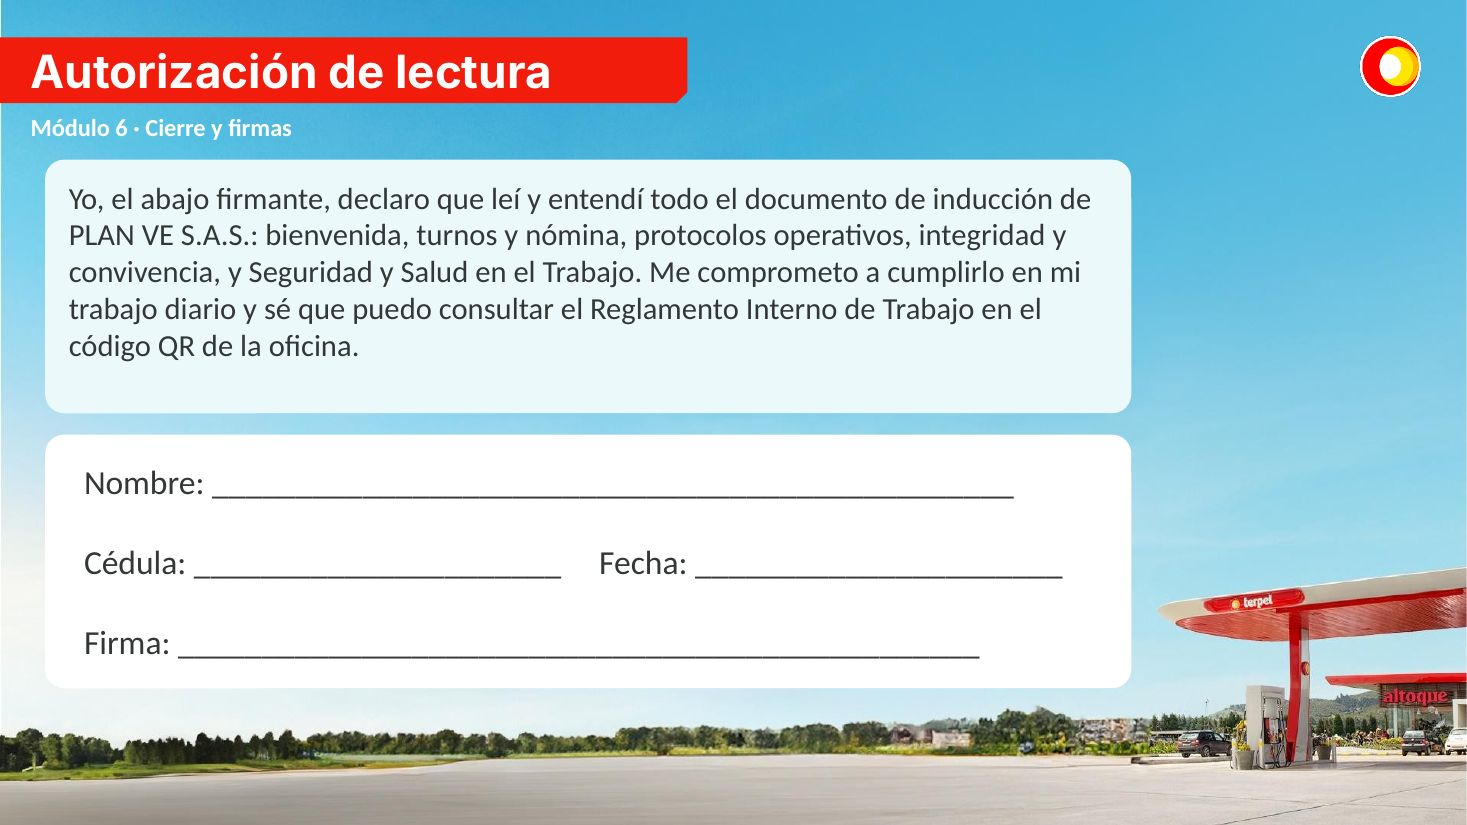
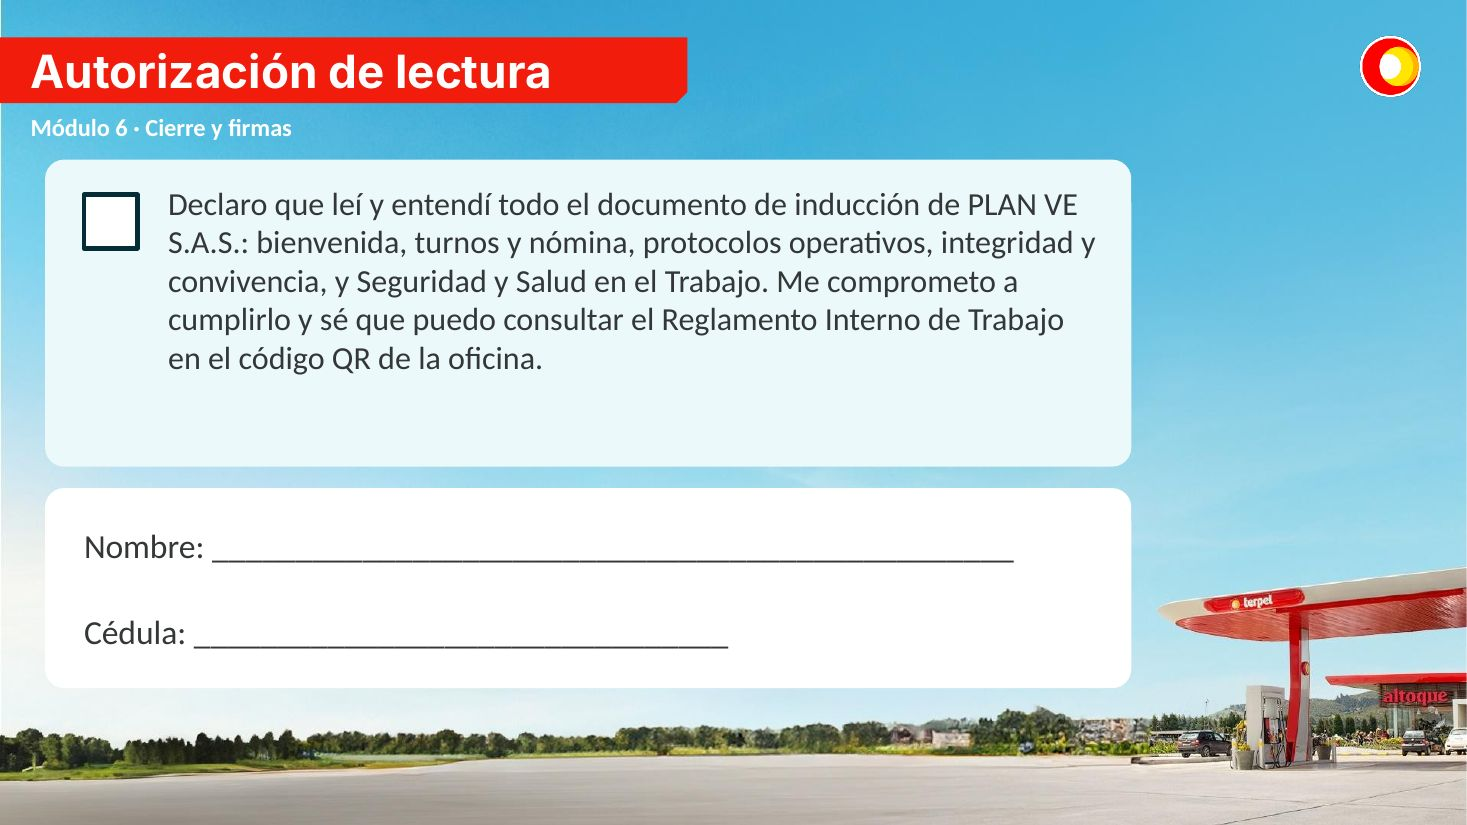
Inducción: autorización de lectura con casilla, nombre y cédula; envío a hoja de autorizaciones
Claude-Session: https://claude.ai/code/session_01BHd7aSP7BJ5TxykRrPvLiy

diff --git a/induccion/index.html b/induccion/index.html
@@ -88,6 +88,14 @@ input[type=text]:focus{outline:3px solid var(--yellow);border-color:var(--navy)}
 .kv{display:grid;grid-template-columns:auto 1fr;gap:6px 14px;font-variant-numeric:tabular-nums;margin:0}
 .kv dt{color:var(--muted);font-weight:600} .kv dd{margin:0;font-weight:700;min-width:0;overflow-wrap:anywhere}
 .code{font-family:ui-monospace,Menlo,Consolas,monospace;font-size:20px;letter-spacing:.12em;color:var(--navy)}
+.authbox{margin-top:14px;background:var(--surface);border:2px solid var(--red);border-radius:16px;padding:18px;display:flex;flex-direction:column;gap:14px}
+.bigcheck{display:flex;gap:14px;align-items:flex-start;cursor:pointer;font-size:17px;line-height:1.45}
+.bigcheck input{appearance:none;-webkit-appearance:none;flex:none;width:34px;height:34px;border:3px solid var(--navy);border-radius:6px;background:var(--surface);display:grid;place-items:center;cursor:pointer;margin:0}
+.bigcheck input:checked{background:var(--ok);border-color:var(--ok)}
+.bigcheck input:checked::after{content:"✓";color:#fff;font-size:26px;font-weight:900;line-height:1}
+.bigcheck input:focus-visible{outline:3px solid var(--yellow);outline-offset:2px}
+.okmsg{color:var(--ok);font-weight:700}
+.badmsg{color:var(--bad);font-weight:700}
 .tbl-wrap{overflow-x:auto;border:1px solid var(--line);border-radius:14px;background:var(--surface)}
 table.res{border-collapse:collapse;width:100%;font-size:14px;font-variant-numeric:tabular-nums}
 table.res th,table.res td{padding:10px 12px;text-align:left;border-bottom:1px solid var(--line);white-space:nowrap}
@@ -123,6 +131,16 @@ table.res th{font-family:var(--display);font-weight:800;color:var(--muted);font-
       <button class="btn ghost" id="next">Siguiente</button>
     </div>
     <div class="dots" id="dots" aria-label="Ir a una diapositiva"></div>
+    <div class="authbox" id="authPanel" hidden>
+      <h2>Autorización de lectura</h2>
+      <label class="bigcheck" for="authChk"><input type="checkbox" id="authChk"><span>Declaro que leí y entendí todo el documento de inducción de PLAN VE S.A.S.: bienvenida, turnos y nómina, protocolos operativos, integridad y convivencia, y Seguridad y Salud en el Trabajo. Me comprometo a cumplirlo y sé que puedo consultar el Reglamento Interno de Trabajo en el código QR de la oficina.</span></label>
+      <div class="row">
+        <label class="f" for="authNombre">Nombre completo<input type="text" id="authNombre" autocomplete="off" placeholder="Ej.: Juan Pérez"></label>
+        <label class="f" for="authCedula">Cédula<input type="text" id="authCedula" inputmode="numeric" autocomplete="off" placeholder="Ej.: 1012345678"></label>
+      </div>
+      <div><button class="btn" id="authSend" disabled>Firmar autorización</button></div>
+      <p id="authMsg" class="note" hidden></p>
+    </div>
     <div class="cta" id="cta">
       <div><h2>¿Terminaste la presentación?</h2><p style="color:var(--muted)">Responde la evaluación. Se aprueba solo con 100/100.</p></div>
       <button class="btn" id="toEval2">Hacer la evaluación</button>
@@ -144,6 +162,7 @@ table.res th{font-family:var(--display);font-weight:800;color:var(--muted);font-
       <div class="panel stack">
         <h2>Antes de empezar</h2>
         <ul class="rules">
+          <li>Antes debes firmar la <b>autorización de lectura</b> al final de la presentación.</li>
           <li>Son <b>20 preguntas</b> de selección múltiple sobre lo que viste en la inducción.</li>
           <li>Necesitas <b>100 sobre 100</b>. Con una sola respuesta mala, repites.</li>
           <li>Cada intento trae preguntas diferentes y las opciones en otro orden.</li>
@@ -152,12 +171,14 @@ table.res th{font-family:var(--display);font-weight:800;color:var(--muted);font-
         </ul>
       </div>
       <div class="panel stack">
-        <div class="row">
-          <label class="f" for="nombre">Nombre completo<input type="text" id="nombre" autocomplete="name" placeholder="Ej.: Juan Pérez"></label>
-          <label class="f" for="cedula">Cédula<input type="text" id="cedula" inputmode="numeric" placeholder="Ej.: 1012345678"></label>
+        <div id="needAuth" class="stack">
+          <p class="badmsg">Primero firma la autorización de lectura al final de la presentación.</p>
+          <div><button class="btn alt" id="goAuth">Ir a la autorización</button></div>
         </div>
-        <label class="opt" for="autoriza" style="cursor:pointer"><input type="checkbox" id="autoriza"><span><b>Autorización de lectura:</b> declaro que leí y entendí todo el documento de inducción de PLAN VE S.A.S. y que puedo consultar el Reglamento Interno de Trabajo en el código QR de la oficina.</span></label>
-        <div><button class="btn" id="go" disabled>Empezar evaluación</button></div>
+        <div id="haveAuth" class="stack" hidden>
+          <dl class="kv"><dt>Nombre</dt><dd id="evN"></dd><dt>Cédula</dt><dd id="evC"></dd></dl>
+          <div><button class="btn" id="go">Empezar evaluación</button></div>
+        </div>
       </div>
     </section>
     <section id="result" class="stack" style="margin-top:16px" hidden></section>
@@ -178,10 +199,12 @@ const $ = (id)=>document.getElementById(id);
 const N = 41; let cur = 1;
 const src = (n)=>`slides/s-${String(n).padStart(2,"0")}.jpg`;
 for(let i=1;i<=N;i++){ const b=document.createElement("button"); b.setAttribute("aria-label","Diapositiva "+i); b.addEventListener("click",()=>show(i)); $("dots").appendChild(b); }
-const VIDEO_SLIDE = 11;
+const VIDEO_SLIDE = 11, AUTH_SLIDE = 40;
+let auth = null;
 function show(n){
   cur=Math.max(1,Math.min(N,n));
   const isVid = cur===VIDEO_SLIDE; $("slide").hidden=isVid; $("vid").hidden=!isVid; $("vidcap").hidden=!isVid; if(!isVid) $("vid").pause();
+  $("authPanel").hidden = cur!==AUTH_SLIDE;
   $("slide").src=src(cur); $("slide").alt="Diapositiva "+cur+" de la inducción";
   $("pos").textContent=cur+" / "+N;
   $("prev").disabled=cur===1; $("next").disabled=cur===N;
@@ -194,6 +217,25 @@ document.addEventListener("keydown",(e)=>{ if($("deck").hidden) return; if(e.key
 let tx=null; $("slide").addEventListener("touchstart",e=>{tx=e.touches[0].clientX},{passive:true});
 $("slide").addEventListener("touchend",e=>{ if(tx===null) return; const dx=e.changedTouches[0].clientX-tx; if(Math.abs(dx)>40) show(cur+(dx<0?1:-1)); tx=null; });
 show(1);
+
+function authValid(){ return $("authChk").checked && $("authNombre").value.trim().length>3 && /\d{5,}/.test($("authCedula").value); }
+["authChk","authNombre","authCedula"].forEach(id=>$(id).addEventListener(id==="authChk"?"change":"input",()=>{ if(!auth) $("authSend").disabled=!authValid(); }));
+$("authSend").addEventListener("click", async ()=>{
+  if(!authValid() || auth) return;
+  auth={nombre:$("authNombre").value.trim(), cedula:$("authCedula").value.replace(/\D/g,""), fecha:new Date().toISOString()};
+  ["authChk","authNombre","authCedula","authSend"].forEach(id=>$(id).disabled=true);
+  $("authSend").textContent="Autorización firmada";
+  const m=$("authMsg"); m.hidden=false; m.className="note"; m.textContent="Enviando…";
+  refreshStart();
+  const ok = await saveAuth({nombre:auth.nombre, cedula:auth.cedula, fecha:auth.fecha, autorizacion:"Leí y entendí todo el documento de inducción"});
+  m.className = ok ? "okmsg" : "badmsg";
+  m.textContent = ok ? "Autorización registrada. Ya puedes hacer la evaluación." : "Autorización firmada, pero no se pudo enviar. Avisa a la administración. Ya puedes hacer la evaluación.";
+});
+function refreshStart(){
+  $("needAuth").hidden=!!auth; $("haveAuth").hidden=!auth;
+  if(auth){ $("evN").textContent=auth.nombre; $("evC").textContent=auth.cedula; }
+}
+$("goAuth").addEventListener("click",()=>{ view("deck"); show(AUTH_SLIDE); });
 
 function view(v){
   const ev = v==="eval", rs = v==="res";
@@ -211,14 +253,16 @@ $("toDeck").addEventListener("click",()=>view("deck"));
 $("toRes").addEventListener("click",()=>view("res"));
 if(location.hash==="#evaluacion") view("eval");
 
-/* ---------- Guardado de resultados en Google Sheets ---------- */
-const SHEETS_URL = "";   // URL del Apps Script (Implementar > Aplicación web)
+/* ---------- Envío a Google Sheets (Apps Script) ---------- */
+const SHEETS_URL = "";   // URL del Apps Script (Implementar > Aplicación web), termina en /exec
 var canAdmin=false;
-async function saveResult(rec){
+async function send(tipo, rec){
   if(!SHEETS_URL) return false;
-  try{ await fetch(SHEETS_URL,{method:"POST",mode:"no-cors",headers:{"Content-Type":"text/plain"},body:JSON.stringify(rec)}); return true; }
+  try{ await fetch(SHEETS_URL,{method:"POST",mode:"no-cors",headers:{"Content-Type":"text/plain"},body:JSON.stringify(Object.assign({tipo:tipo},rec))}); return true; }
   catch(e){ return false; }
 }
+const saveAuth = (rec)=>send("autorizacion", rec);
+const saveResult = (rec)=>send("evaluacion", rec);
 
 /* ---------- Evaluación ---------- */
 // Banco de preguntas: la primera opción de cada arreglo es la correcta (se baraja al mostrar).
@@ -323,9 +367,7 @@ function pick(){
     return {mod:x.mod, text, why, order: shuffle(opts.map((t,k)=>({t,ok:k===0})))};
   });
 }
-function validStart(){ $("go").disabled = !($("nombre").value.trim().length>3 && /\d{5,}/.test($("cedula").value) && $("autoriza").checked); }
-$("nombre").addEventListener("input",validStart); $("cedula").addEventListener("input",validStart); $("autoriza").addEventListener("change",validStart);
-$("go").addEventListener("click",()=>{ person={nombre:$("nombre").value.trim(), cedula:$("cedula").value.replace(/\D/g,"")}; $("start").hidden=true; newAttempt(); });
+$("go").addEventListener("click",()=>{ if(!auth) return; person={nombre:auth.nombre, cedula:auth.cedula}; $("start").hidden=true; newAttempt(); });
 $("quiz").addEventListener("change", progress);
 
 function newAttempt(){
@@ -382,7 +424,9 @@ $("send").addEventListener("click",()=>{
       <h2>¡Felicitaciones! Completaste tu inducción.</h2>
       <dl class="kv"><dt>Nombre</dt><dd id="cN"></dd><dt>Cédula</dt><dd id="cC"></dd><dt>Fecha</dt><dd>${fecha}</dd><dt>Intentos</dt><dd>${attempt}</dd><dt>Código</dt><dd class="code">${code}</dd></dl>
       <p id="saveMsg" class="note">Guardando el resultado…</p>
-      <p>Muestra esta pantalla a la administración para firmar tu constancia de inducción.</p></div>`;
+      <p>Muestra esta pantalla a la administración para firmar tu constancia de inducción.</p>
+      <div><button class="btn alt" id="nextPerson">Terminar y dejar listo para otra persona</button></div></div>`;
+    $("nextPerson").addEventListener("click",()=>location.reload());
     $("cN").textContent=person.nombre; $("cC").textContent=person.cedula;
     savedP.then(ok=>{ $("saveMsg").textContent = ok ? "Resultado enviado a la administración." : "No se pudo enviar el resultado: toma una captura de esta pantalla."; });
   } else {
